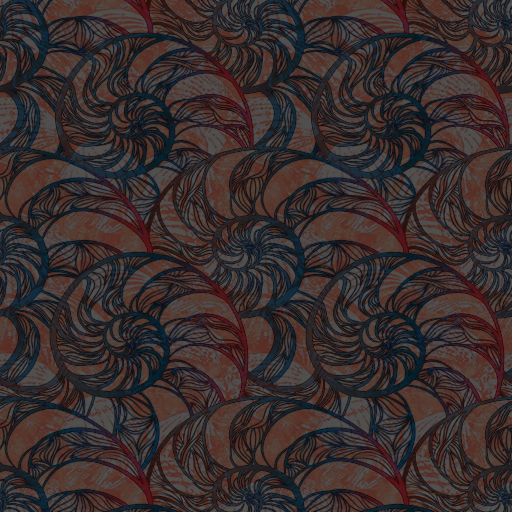
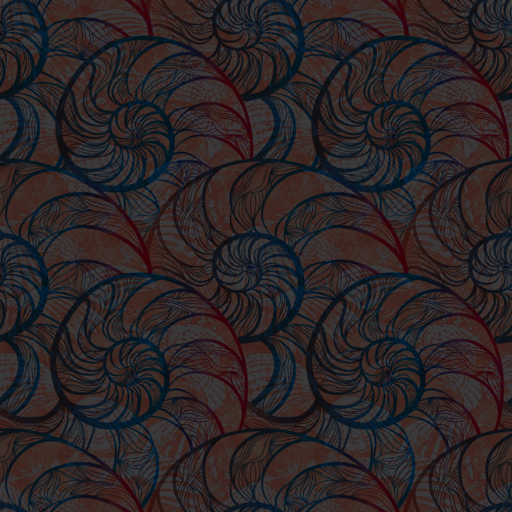
upd imagery
st06a replacement, bullet05 adjustment + nina adjustment

diff --git a/th20-betterAssets/files.js b/th20-betterAssets/files.js
@@ -7,6 +7,8 @@
 	"th20/background/stage03/st03b00.png": 3768440780,
 	"th20/background/stage03/st03c00.png": 3123529634,
 	"th20/background/stage03/st03d00.PNG": 2558922850,
+	"th20/background/stage06/st06a00.png": 1264700145,
+	"th20/bullet/bullet05.png": 3213878274,
 	"th20/effect/eff_switchbg.png": 2832390116,
 	"th20/front/front00.PNG": 1362668156,
 	"th20/front/logo/st01logo.png": 1462986013,
@@ -23,8 +25,8 @@
 	"th20/stgenm/stage06/cdbg06a00.png": 4191235043,
 	"th20/stgenm/stage06/cdbg06b00.png": 3476723376,
 	"th20/stgenm/stage06/cdbg06c00.png": 3630751680,
-	"th20/stgenm/stage07/cdbg07a00.png": 4128339679,
-	"th20/stgenm/stage07/cdbg07b00.png": 1919461929,
+	"th20/stgenm/stage07/cdbg07a00.png": 3389436298,
+	"th20/stgenm/stage07/cdbg07b00.png": 1591912763,
 	"th20/title/title_bk00.png": 2800221905,
 	"th20/title/title_pl00c.png": 760161424,
 	"th20/title/title_pl01c.png": 2246719793
